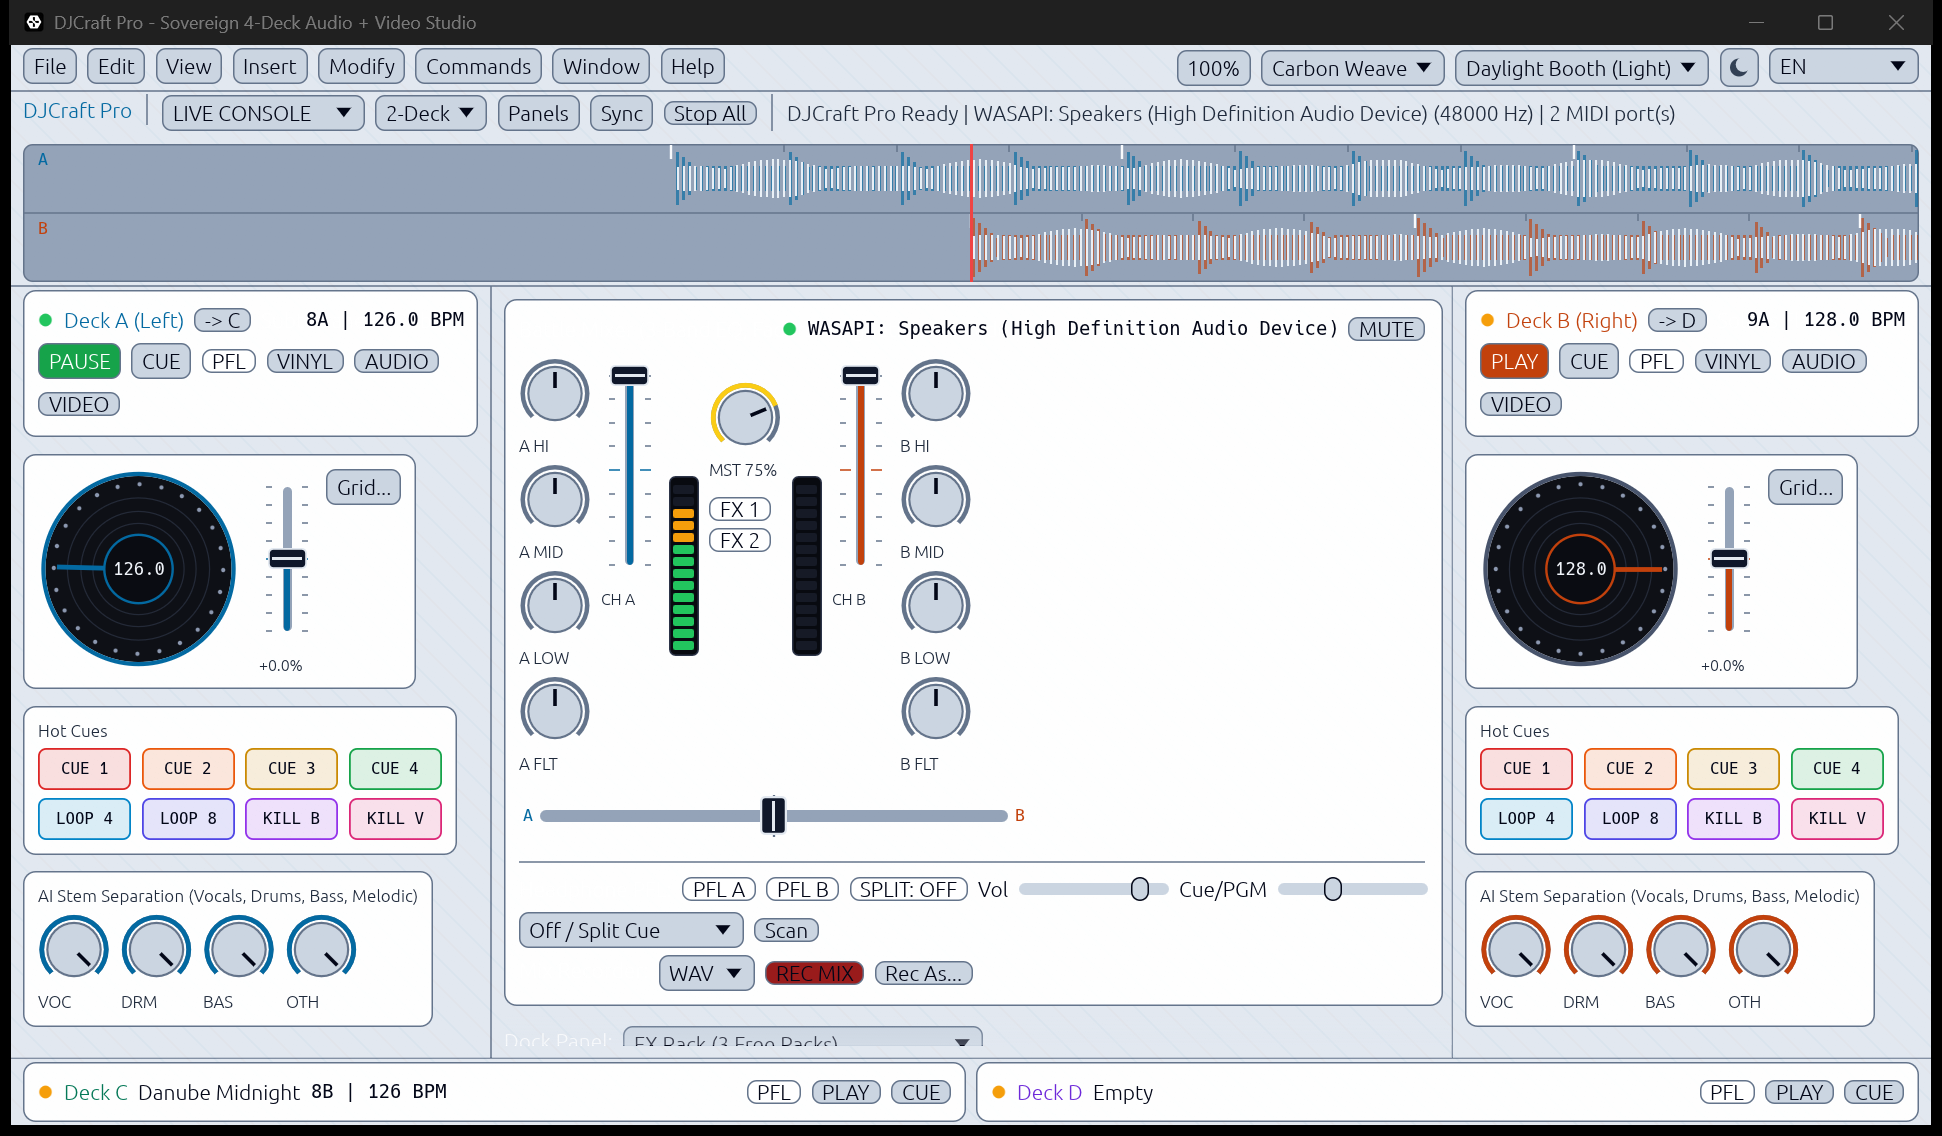
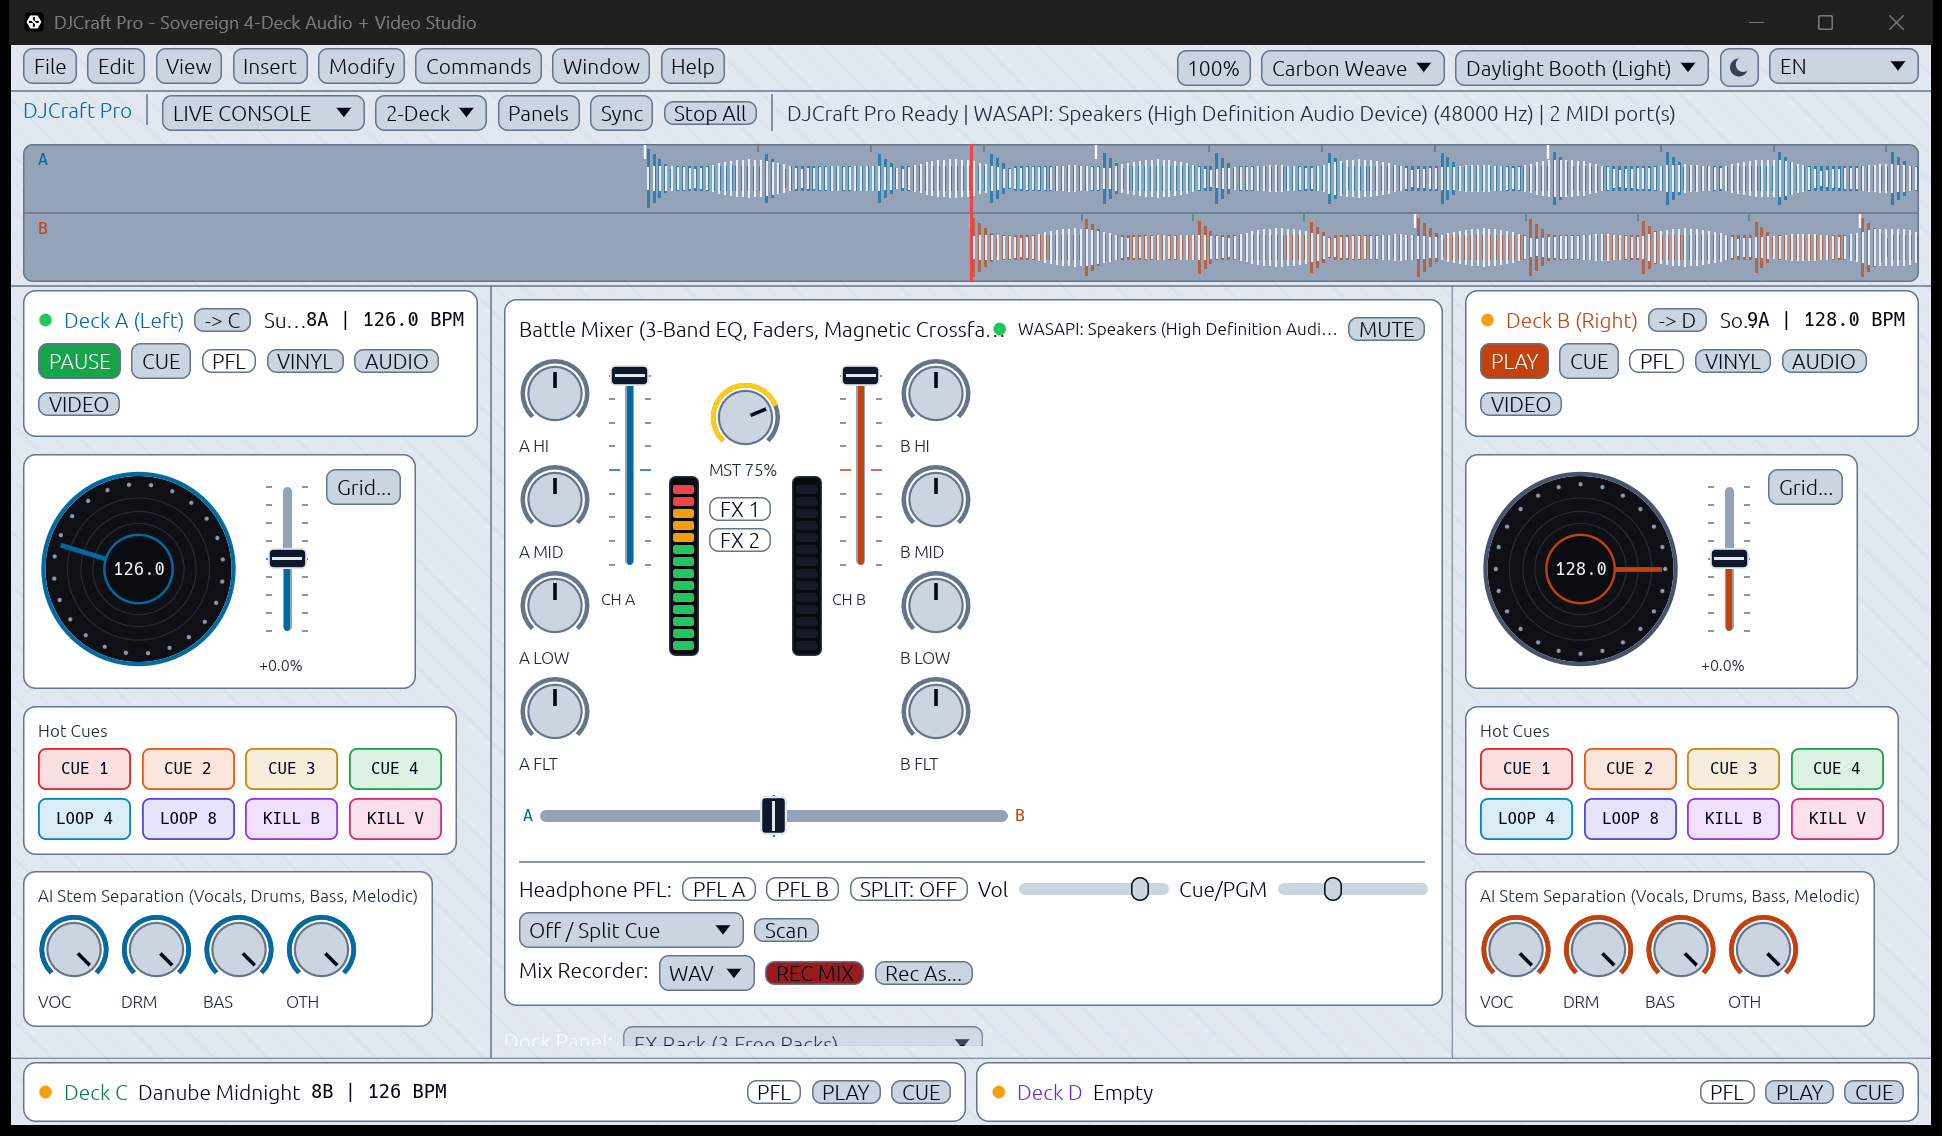
polish(ui): fix header text overlaps, light-mode label contrast, and knob accessibility

diff --git a/crates/djcraft-app/src/battle_mixer.rs b/crates/djcraft-app/src/battle_mixer.rs
@@ -14,7 +14,16 @@ impl super::DjCraftApp {
     pub(super) fn render_battle_mixer(&mut self, ui: &mut egui::Ui, palette: &SkinPalette) {
         theme::card_frame(ui, palette, |ui| {
             ui.horizontal(|ui| {
-                ui.strong(t(I18nKey::BattleMixer, self.locale));
+                let title_w = (ui.available_width() - 280.0).max(90.0);
+                ui.add_sized(
+                    [title_w, 18.0],
+                    egui::Label::new(
+                        egui::RichText::new(t(I18nKey::BattleMixer, self.locale))
+                            .strong()
+                            .color(palette.text_primary),
+                    )
+                    .truncate(),
+                );
                 ui.with_layout(egui::Layout::right_to_left(egui::Align::Center), |ui| {
                     let mute_lbl = if self.orch.master_muted {
                         "UNMUTE"
@@ -24,11 +33,15 @@ impl super::DjCraftApp {
                     if ui.small_button(mute_lbl).clicked() {
                         self.execute_catalog_id("modify.toggle_mute");
                     }
-                    ui.monospace(if self.audio_out.active {
+                    let dev_text = if self.audio_out.active {
                         format!("WASAPI: {}", self.audio_out.device_name)
                     } else {
                         "WASAPI: Offline".to_string()
-                    });
+                    };
+                    ui.add(
+                        egui::Label::new(egui::RichText::new(dev_text).monospace().small())
+                            .truncate(),
+                    );
                     theme::status_dot(ui, self.audio_out.active && !self.orch.master_muted);
                 });
             });
@@ -295,7 +308,11 @@ impl super::DjCraftApp {
             ui.separator();
             // Dual-Bus Headphone PFL Pre-Cue Strip
             ui.horizontal_wrapped(|ui| {
-                ui.strong(t(I18nKey::HeadphonePfl, self.locale));
+                ui.label(
+                    egui::RichText::new(t(I18nKey::HeadphonePfl, self.locale))
+                        .strong()
+                        .color(palette.text_primary),
+                );
                 let pfl_a = egui::Button::new("PFL A").small().fill(if da.pfl_cue {
                     palette.deck_a
                 } else {
@@ -426,7 +443,11 @@ impl super::DjCraftApp {
 
             // Live Lossless WAV / FLAC Mix Recorder Strip
             ui.horizontal_wrapped(|ui| {
-                ui.strong(t(I18nKey::MixRecorder, self.locale));
+                ui.label(
+                    egui::RichText::new(t(I18nKey::MixRecorder, self.locale))
+                        .strong()
+                        .color(palette.text_primary),
+                );
                 let is_rec = self.audio_out.is_recording();
                 ui.add_enabled_ui(!is_rec, |ui| {
                     egui::ComboBox::from_id_salt("rec_format_combo")

diff --git a/crates/djcraft-app/src/widgets.rs b/crates/djcraft-app/src/widgets.rs
@@ -1,6 +1,6 @@
 #![forbid(unsafe_code)]
 //! GPU-painted tactile DJ hardware controls:
-//! rotary EQ/gain knobs, vertical club faders, MAG FOUR battle crossfader,
+//! rotary EQ/gain knobs, vertical club faders, Magnetic battle crossfader,
 //! 8 RGB MPC performance pads, stacked parallel beatmatching waveforms,
 //! motorized vinyl platters, stereo VU meters, and 12-hour Camelot wheel.
 
@@ -36,6 +36,13 @@ pub fn rotary_knob(
     ui.vertical(|ui| {
         let size = Vec2::new(48.0, 48.0);
         let (rect, resp) = ui.allocate_exact_size(size, Sense::click_and_drag());
+        resp.widget_info(|| {
+            egui::WidgetInfo::labeled(
+                egui::Role::Slider,
+                ui.is_enabled(),
+                format!("{label}: {:.2}", *value),
+            )
+        });
 
         if resp.double_clicked() {
             *value = default_val;
@@ -45,6 +52,28 @@ pub fn rotary_knob(
             let delta = -resp.drag_delta().y as f64 * (max - min) / 140.0;
             *value = (*value + delta).clamp(min, max);
             changed = true;
+        } else if resp.has_focus() {
+            let step = (max - min) / 40.0;
+            let (inc, dec, rst) = ui.input(|i| {
+                (
+                    i.key_pressed(egui::Key::ArrowUp) || i.key_pressed(egui::Key::ArrowRight),
+                    i.key_pressed(egui::Key::ArrowDown) || i.key_pressed(egui::Key::ArrowLeft),
+                    i.key_pressed(egui::Key::Home) || i.key_pressed(egui::Key::Num0),
+                )
+            });
+            if inc {
+                *value = (*value + step).clamp(min, max);
+                changed = true;
+                committed = true;
+            } else if dec {
+                *value = (*value - step).clamp(min, max);
+                changed = true;
+                committed = true;
+            } else if rst {
+                *value = default_val;
+                changed = true;
+                committed = true;
+            }
         }
         if resp.drag_stopped() {
             committed = true;

diff --git a/crates/djcraft-app/src/main.rs b/crates/djcraft-app/src/main.rs
@@ -1236,12 +1236,22 @@ impl DjCraftApp {
                         }
                     }
                     if let Some(track) = &d.loaded_track {
-                        ui.label(egui::RichText::new(&track.title).strong());
+                        let key_bpm = format!("{} | {:.1} BPM", track.musical_key, track.bpm);
+                        let avail = (ui.available_width() - 124.0).max(32.0);
+                        ui.add_sized(
+                            [avail, 18.0],
+                            egui::Label::new(
+                                egui::RichText::new(&track.title)
+                                    .strong()
+                                    .color(palette.text_primary),
+                            )
+                            .truncate(),
+                        );
                         ui.with_layout(egui::Layout::right_to_left(egui::Align::Center), |ui| {
-                            ui.monospace(format!("{} | {:.1} BPM", track.musical_key, track.bpm));
+                            ui.monospace(key_bpm);
                         });
                     } else {
-                        ui.label("Empty Deck");
+                        ui.label(egui::RichText::new("Empty Deck").color(palette.text_secondary));
                     }
                 });
                 ui.horizontal_wrapped(|ui| {
